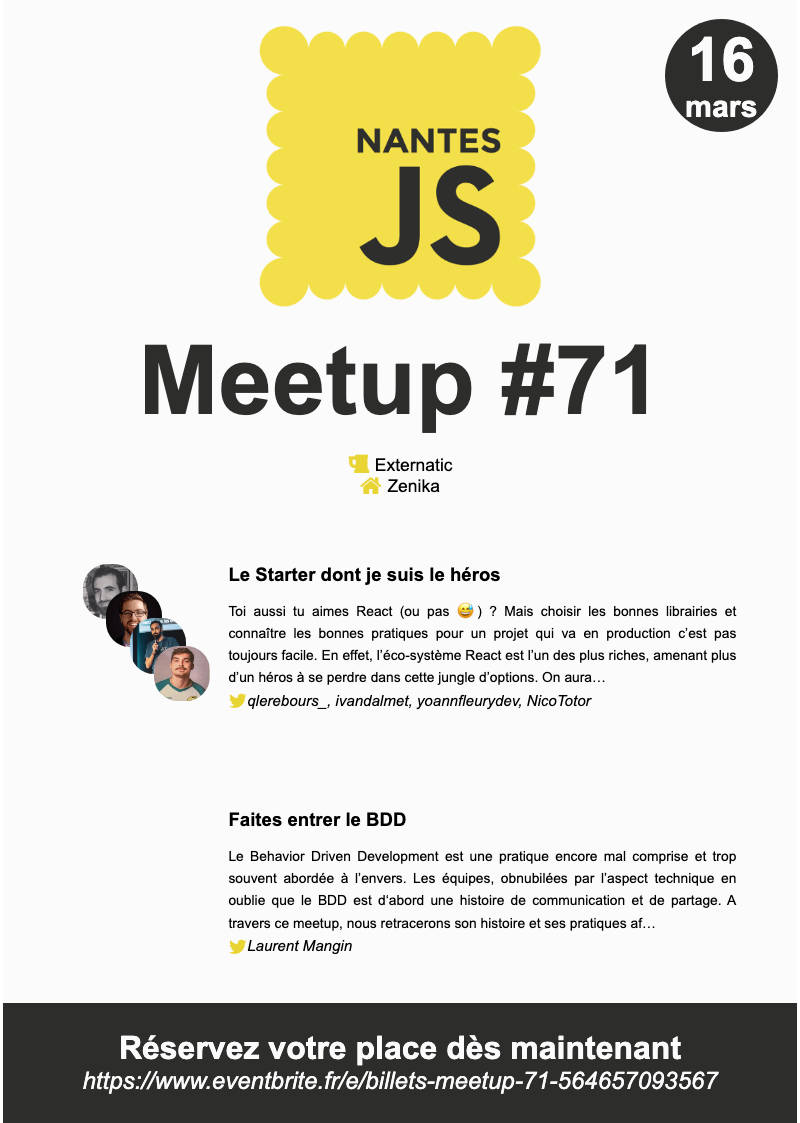
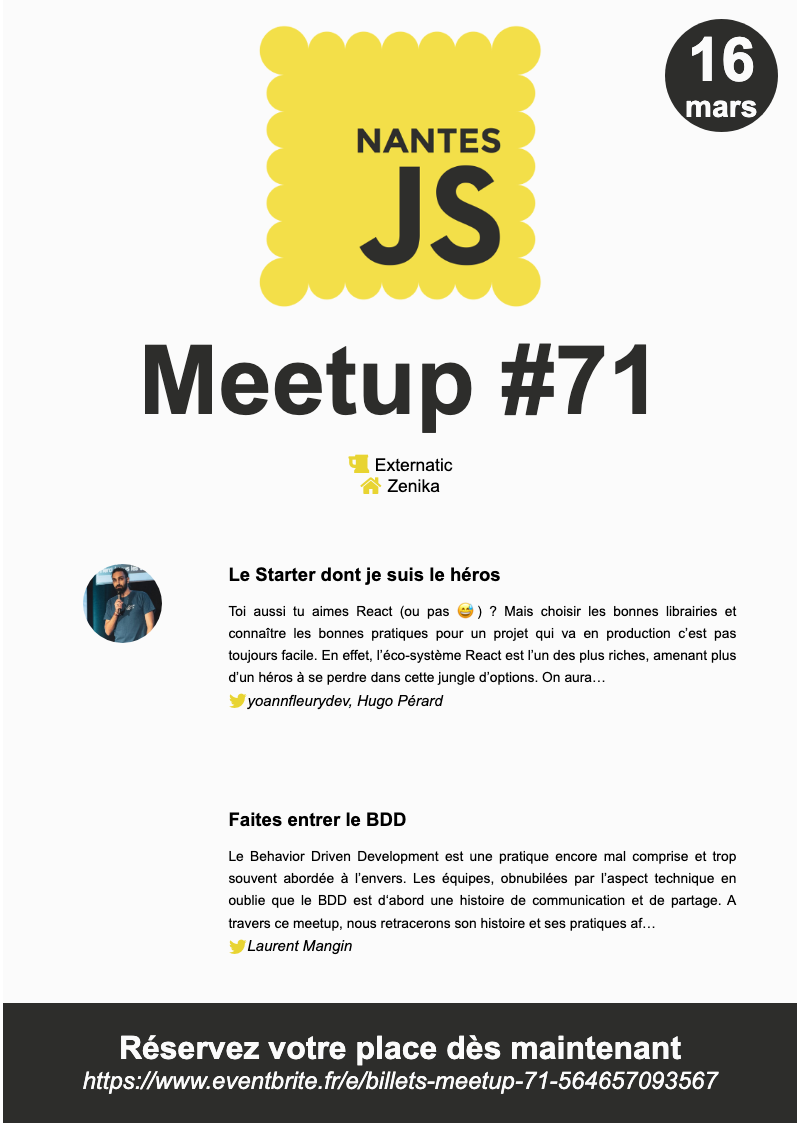
🍱 Add meetup 71 (#225)

Changed region(s): [[0.0938, 0.4987, 0.2812, 0.6233], [0.3125, 0.6233, 0.625, 0.6545]]

diff --git a/datas/meetups/meetup-71.md b/datas/meetups/meetup-71.md
@@ -25,20 +25,11 @@ talks:
     speakers:
       -
           id: '528610f2-2627-4e6d-b146-4af2ff10592c'
-          name: 'Quentin Lerebours'
-          link: 'qlerebours_'
-      -
-          id: '528610f2-2627-4e6d-b146-4af2ff10592c'
-          name: 'Ivan Dalmet'
-          link: 'ivandalmet'
-      -
-          id: '528610f2-2627-4e6d-b146-4af2ff10592c'
           name: 'Yoann Fleury'
           link: 'yoannfleurydev'
       -
           id: '528610f2-2627-4e6d-b146-4af2ff10592c'
-          name: 'Nicolas Torion'
-          link: 'NicoTotor'
+          name: 'Hugo Pérard'
   -
     id: '6e58e109-b6b3-44ea-ac62-f2945bb4413c'
     title: "Faites entrer le BDD"
